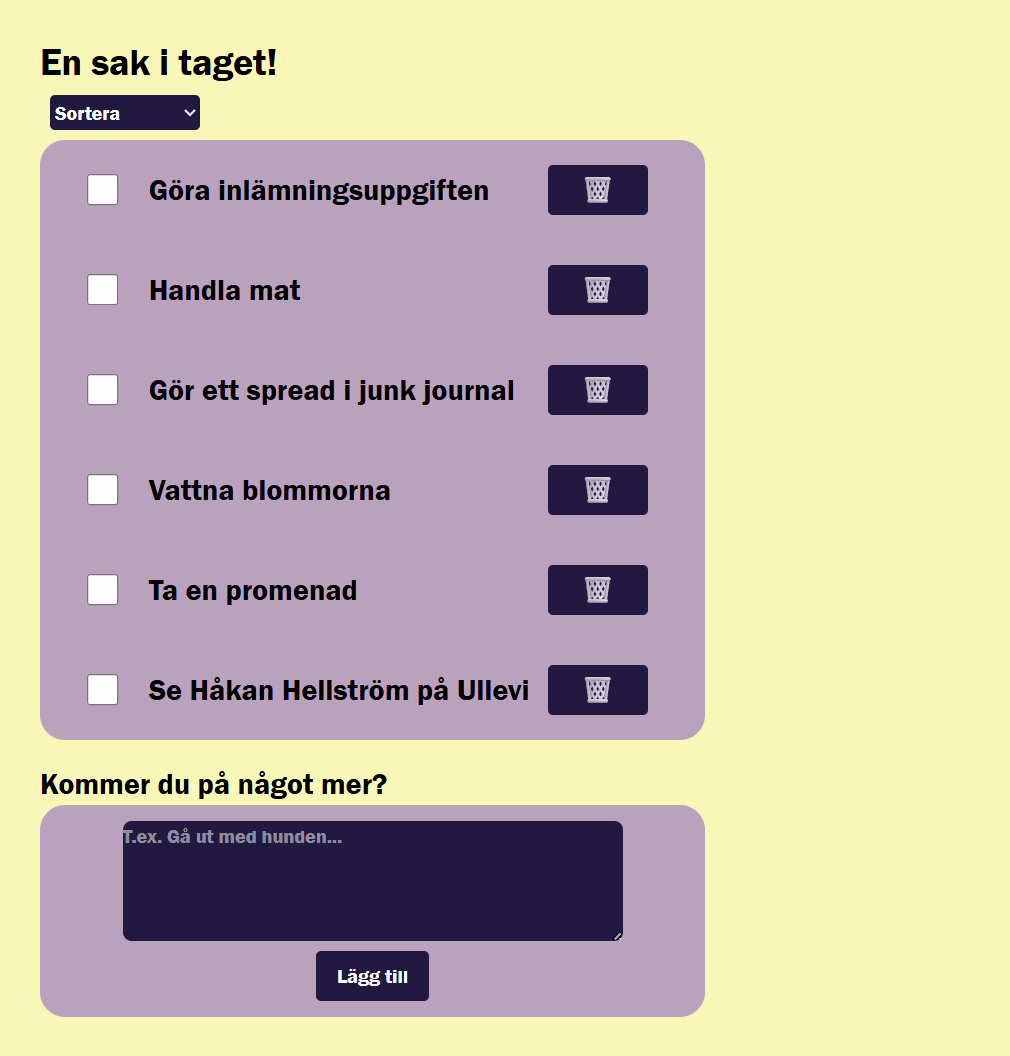
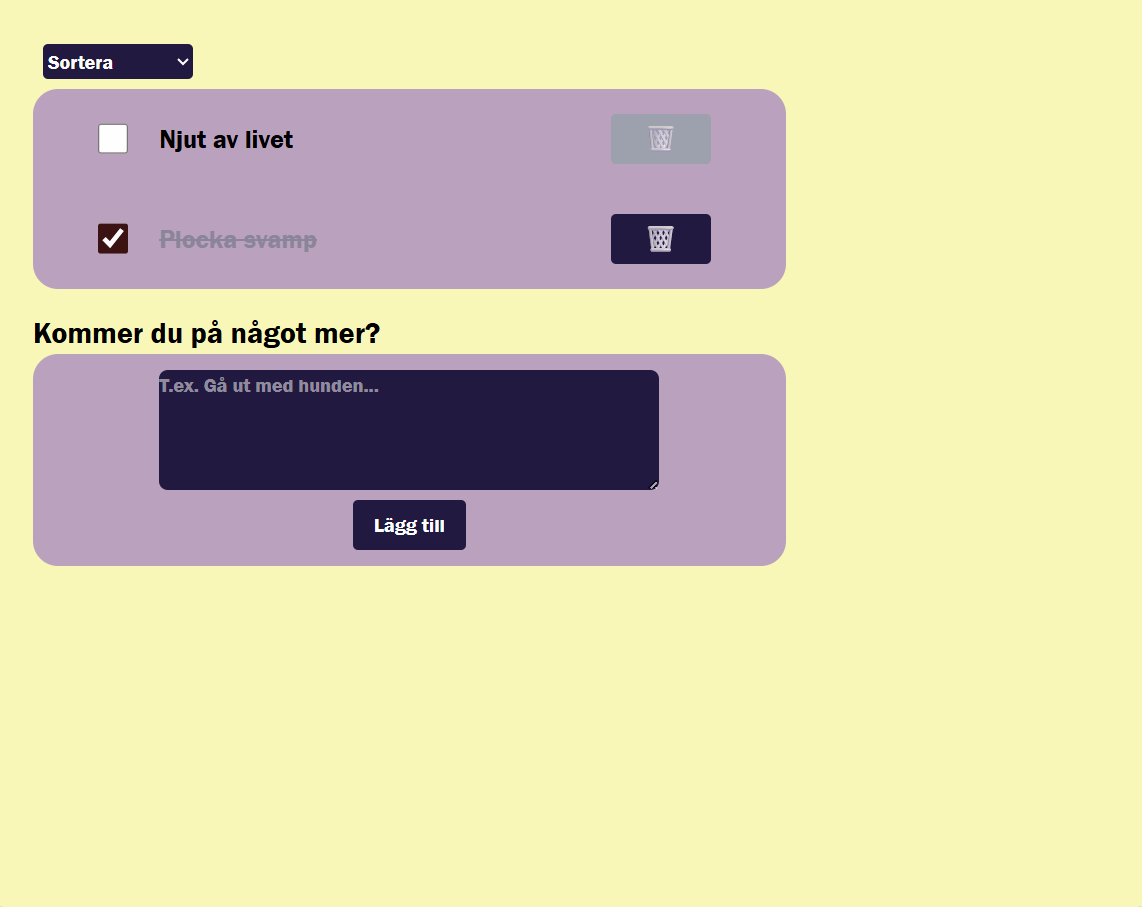
docs: updated readme

diff --git a/src/components/TodoPresentation.tsx b/src/components/TodoPresentation.tsx
@@ -12,8 +12,8 @@ export const TodoPresentation = ({todo, onToggleDone, onDelete}: TodoProps) => {
         <li  className={`flex items-center justify-center h-20`}>
                     <input className="w-[25px] h-[25px] accent-[#411010] cursor-pointer mr-6" 
                         type="checkbox" title="Klicka här när uppgiften är färdig" checked={todo.isDone} onChange={() => onToggleDone(todo.id)} />
-                    <span className={`w-[60%] md:text-[1.5rem]} ${todo.isDone ? "text-gray-500 line-through opacity-60" : ""}`}>{todo.title}</span>
-                    <button className="bg-[#231942] border-none rounded w-[60px] h-[40px] mr-2 md:w-[80px] disabled:bg-gray-400 disabled:cursor-not-allowed" onClick={() => onDelete(todo.id, todo.isDone)} disabled = {!todo.isDone} >🗑</button>
+                    <span className={`w-[60%] md:text-[1.5rem]} ${todo.isDone ? "text-gray-1000 line-through opacity-60" : ""}`}>{todo.title}</span>
+                    <button className="bg-[#231942] border-none rounded w-[60px] h-[40px] mr-2 md:w-[80px] disabled:bg-gray-600 disabled:cursor-not-allowed" onClick={() => onDelete(todo.id, todo.isDone)} disabled = {!todo.isDone} >🗑</button>
                 </li>
     </>
 }

diff --git a/cypress/e2e/todo.cy.ts b/cypress/e2e/todo.cy.ts
@@ -16,7 +16,6 @@ describe('template spec', () => {
     cy.get('ul > li').last().find('input[type="checkbox"]').should('not.be.checked')
   })
 
-  // lägg till: disable button when isDone is false
   it('button is disabled when not done', () => {
     cy.get('ul > li').last().as('secondTodo')
     cy.get('@secondTodo').find('input[type="checkbox"]').should('not.be.checked')

diff --git a/README.md b/README.md
@@ -1,27 +1,61 @@
 # TodoApp
 Welcome to my todo app, my very first React project built with TypeScript!
-This simple application demonstrates my understanding of fundamental React concepts such as components, state, props, and event handling. The project is a classic todo list with interactive functionality and modular code structure.
+This application is a further development of my previously created TodoApp, with the purpose of exploring end-to-end testing (E2E) using Cypress.
 
-## ✨ Features
-- A hardcoded list of todo items, created using useState
+It demonstrates my understanding of fundamental React concepts such as components, state, props, and event handling, while also showcasing how automated tests can validate user flows and ensure the reliability of the app.
 
-- Clear separation of concerns with multiple components for structure and presentation
+  ## ✨ Features
+  - A hardcoded list of two todo items, created using useState:
+      * "Njut av livet" (already marked as done)
 
-- Ability to mark todos as done via an onChange event that toggles isDone to true
+      * "Mejla handledare" (not done)
 
-- Ability to delete a todo item using an onClick event and array filtering logic
-  
-- LocalStorage integration to persist todos between sessions
+  - Clear separation of concerns with multiple components for structure and presentation
 
-- A form component (AddTodo) that allows users to add new tasks
+  - Ability to mark todos as done via an onChange event that toggles isDone to true
 
-- Sorting functionality for the todo list:
+  - Ability to delete a todo item using an onClick event and array filtering logic
 
-    * Alphabetical order (A–Ö)
+  - A todo can only be deleted if it is marked as done (for testing purposes).
+    
+  - LocalStorage integration to persist todos between sessions
 
-    * Reverse alphabetical order (Ö–A)
+  - A form component (AddTodo) that allows users to add new tasks
 
-- Responsive styling using Tailwind CSS
+  - Sorting functionality for the todo list:
+
+      * Alphabetical order (A–Ö)
+
+      * Reverse alphabetical order (Ö–A)
+
+  - Responsive styling using Tailwind CSS
+
+  ## ✅ Testing
+  This project includes end-to-end testing (E2E) using Cypress. E2E tests were chosen to validate the entire flow of the application and ensure that different components work correctly together.
+
+  ### Tested scenarios
+
+  - Initial render
+    * Application loads with two default todos.
+
+    * One todo is marked as done, the other is not.
+
+  - Add new todos
+    * User can add a new todo via the form, and it appears in the list.
+
+  - Todo state
+    * A todo can be toggled between done and not done.
+
+    * Toggling updates both the checkbox state and the visual style (line-through).
+
+  - Delete button behavior
+    * Delete button is disabled when a todo is not marked as done.
+
+    * A todo cannot be deleted if it is not done.
+
+    * A todo can be deleted if it is already done.
+
+    * A todo can be deleted after being marked as done.
 
   ## 🛠 Tech Stack
   
@@ -30,6 +64,8 @@ This simple application demonstrates my understanding of fundamental React conce
   ![TypeScript](https://img.shields.io/badge/typescript-%23007ACC.svg?style=for-the-badge&logo=typescript&logoColor=white)
 
   ![TailwindCSS](https://img.shields.io/badge/tailwindcss-%2338B2AC.svg?style=for-the-badge&logo=tailwind-css&logoColor=white)
+
+  ![Cypress](https://img.shields.io/badge/Cypress-17202C?style=for-the-badge&logo=cypress&logoColor=white)
 
   ## Screenshots
   **Mobile view**
@@ -45,7 +81,12 @@ This simple application demonstrates my understanding of fundamental React conce
   ![Desktop view](src/assets/screenshot-desktop.png)
 
   ## Validation
+
+  ### LightHouse
   ![Lighthouse analysis](src/assets/lighthouse-analysis.png)
+
+  ### Cypress
+  ![Cypress validation](src/assets/lcypress.validation.png)
 
   ## 🤝 Credits
   This project was developed as part of the curriculum at Medieinstitutet during my first year of studies.
